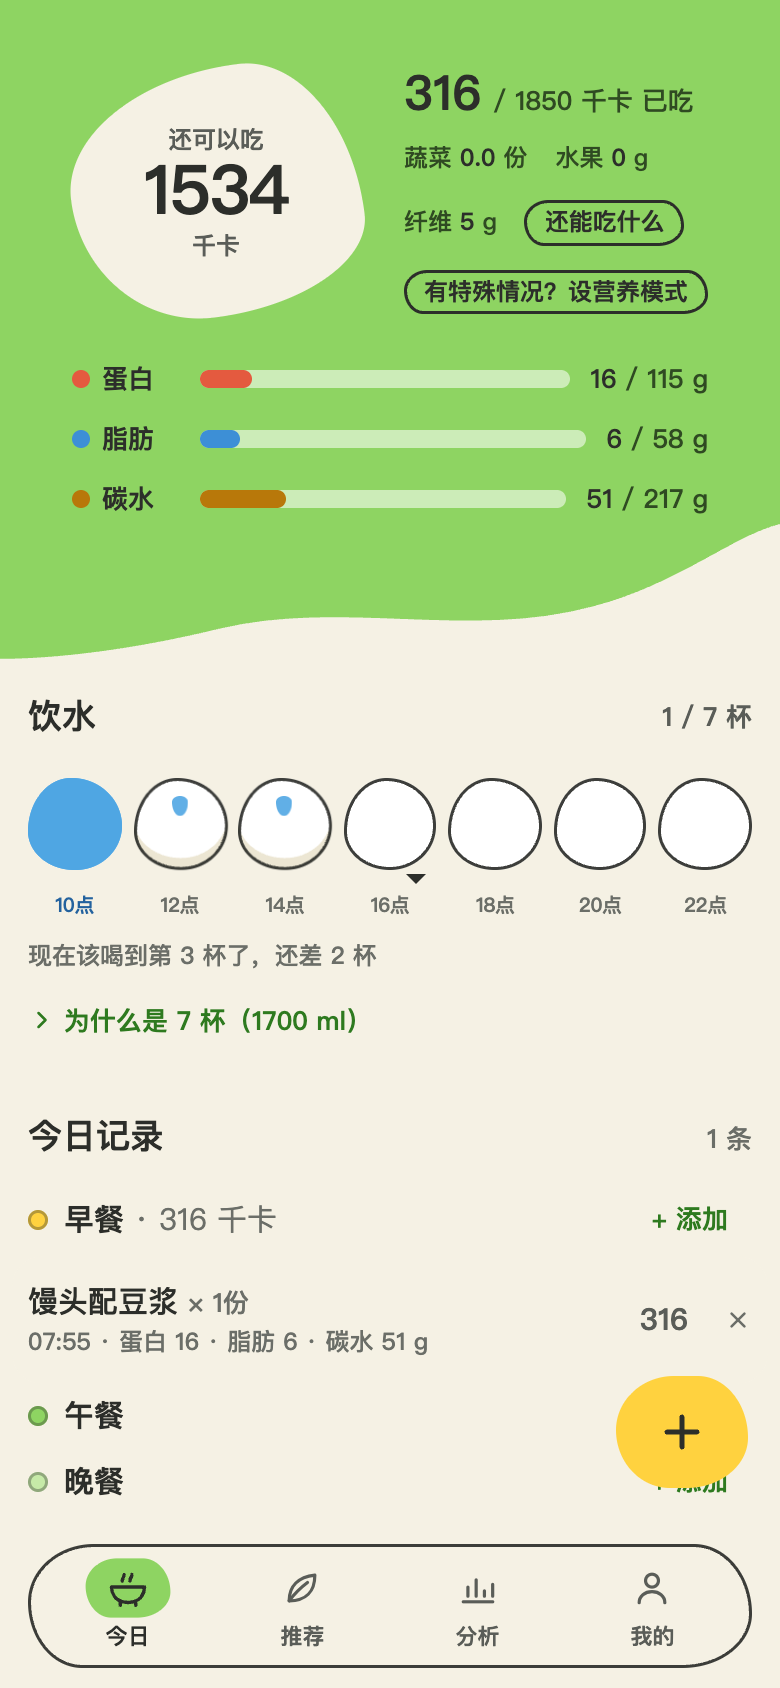
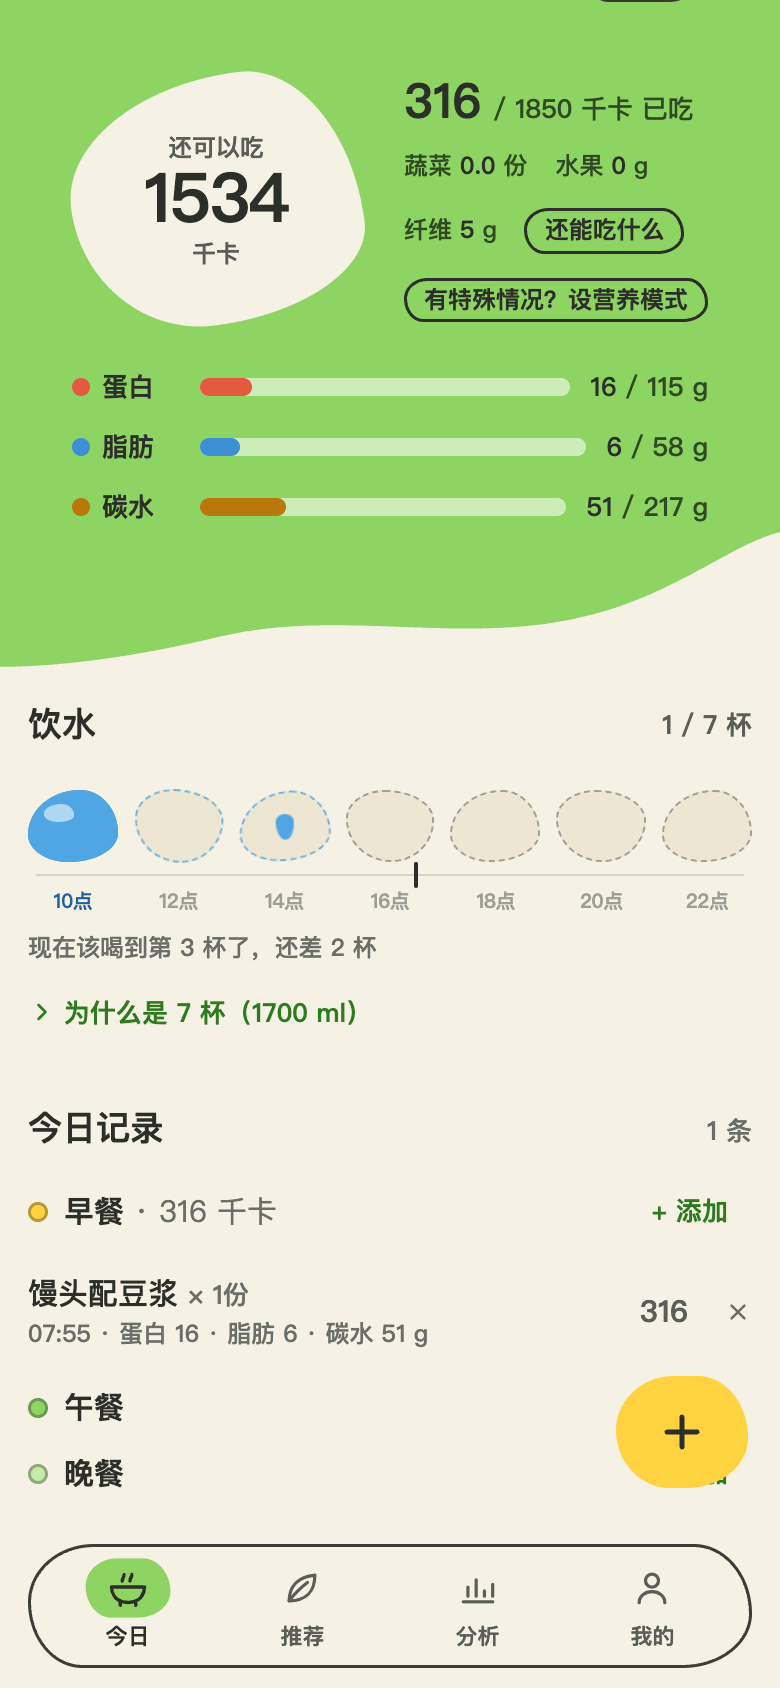
饮水水塘视觉重做：干河床 + 虚线岸、池塘蓝加天光反光、基线上的「现在」刻度
- 空塘：--surface-2 浅滩色 + --axis 虚线岸，宽扁歪椭圆交替两套半径；有水：--pond-deep 底 + --pond 水面 + 平涂反光
- 塘下 --hair 基线串起七个塘，墨色 2×13 刻度表示现在；时刻标签退成 --faint，亮了变 --fat-text
- 口渴：虚线岸变蓝、轻抖，一滴水从上方掉进塘里摊开；新增 --pond-deep token（明暗两套）

diff --git a/src/styles.css b/src/styles.css
@@ -12,6 +12,7 @@
   --sun: #FFD23F;           /* 太阳黄：主操作、早餐、偏离 */
   --coral: #FF6B5A;
   --pond: #4FA6E3;
+  --pond-deep: #3E8FCE;   /* 水塘底色，比水面略深一点 */
   --lilac: #EBC1FF;
   --ink: #2C2E2A;
   --ink-2: #5A5D58;
@@ -71,6 +72,7 @@
     --sun: #E3B92B;
     --coral: #E36A57;
     --pond: #4E97D6;
+    --pond-deep: #3B7BB5;
     --lilac: #B48BC9;
     --ink: #ECEEE6;
     --ink-2: #B3B7AC;
@@ -466,25 +468,32 @@ input[type="checkbox"] { accent-color: var(--accent); width: 16px; height: 16px;
 .finding.open .finding-head svg { transform: rotate(90deg); }
 .finding.summary .title { font-weight: 700; }
 
-/* ========== 饮水：一排 250 ml 的小水塘沿 8~22 点排开 ========== */
-.ponds { position: relative; display: flex; gap: 6px; padding: 6px 0 4px; }
-.pond-slot { flex: 1; min-width: 0; display: flex; flex-direction: column; align-items: center; gap: 12px; }
-.pond { position: relative; width: 100%; height: 46px; border: none; padding: 0; background: var(--surface); border-radius: 46% 54% 50% 50% / 58% 52% 48% 42%; box-shadow: inset 0 0 0 1.5px var(--stroke); overflow: hidden; cursor: pointer; transition: transform var(--t-coast) var(--ease-coast), box-shadow var(--t-med); }
-.pond:nth-child(even) { border-radius: 52% 48% 56% 44% / 46% 58% 42% 54%; }
+/* ========== 饮水：一串小水塘沿 8~22 点的溪流排开 ==========
+   空塘是干河床（浅滩色 + 虚线岸），有水时是池塘蓝加一小片天光反光；底下一根细基线把塘串起来，
+   基线上的墨色刻度是「现在」。到点没喝的塘会渴：抖一下、上面掉一滴水。 */
+.ponds { position: relative; display: flex; gap: 8px; padding: 8px 0 2px; }
+.pond-slot { flex: 1; min-width: 0; display: flex; flex-direction: column; align-items: center; gap: 14px; position: relative; z-index: 1; }
+.pond { position: relative; width: 100%; height: 36px; border: none; padding: 0; background: var(--surface-2); border-radius: 58% 42% 55% 45% / 62% 60% 40% 38%; overflow: hidden; cursor: pointer; box-shadow: inset 0 0 0 1.5px transparent; transition: transform var(--t-coast) var(--ease-coast), box-shadow var(--t-med), background var(--t-med); }
+.pond-slot:nth-child(even) .pond { border-radius: 44% 56% 48% 52% / 40% 42% 58% 60%; }
+.pond::before { content: ''; position: absolute; inset: 0; border-radius: inherit; border: 1.5px dashed var(--axis); opacity: 1; transition: opacity var(--t-med); pointer-events: none; }
+.pond:hover { transform: translateY(-1px); }
 .pond:active { transform: scale(.94); }
-.pond.lit { box-shadow: inset 0 0 0 1.5px var(--pond); }
+.pond.lit { background: var(--pond-deep, #3E8FCE); }
+.pond.lit::before { opacity: 0; }
 .pond-water { position: absolute; left: 0; right: 0; bottom: 0; height: 100%; background: var(--pond); transform-origin: 50% 100%; transition: transform var(--t-coast) var(--ease-coast); }
-.pond-lbl { font-size: 10px; font-weight: 600; color: var(--muted); text-align: center; letter-spacing: -0.02em; white-space: nowrap; line-height: 1; }
+.pond-glint { position: absolute; left: 18%; top: 18%; width: 34%; height: 24%; border-radius: 60% 40% 55% 45% / 55% 65% 35% 45%; background: rgba(255, 255, 255, .55); pointer-events: none; }
+.pond-base { position: absolute; left: 4px; right: 4px; top: 50px; height: 1px; background: var(--hair); z-index: 0; }
+.pond-lbl { font-size: 10px; font-weight: 600; color: var(--faint); text-align: center; letter-spacing: -0.02em; white-space: nowrap; line-height: 1; }
 .pond-slot.lit .pond-lbl { color: var(--fat-text); }
-.pond-now { position: absolute; top: 54px; width: 0; height: 0; border: 5px solid transparent; border-top-color: var(--ink); transform: translateX(-50%); }
-/* 口渴：到点没喝的水塘轻轻发抖，顶上冒一颗小水滴 */
-.pond.thirsty { animation: thirsty 2.6s ease-in-out infinite; animation-delay: calc(var(--i, 0) * 180ms); box-shadow: inset 0 0 0 1.5px var(--stroke), inset 0 -6px 0 var(--surface-2); }
-.pond-drop { position: absolute; left: 50%; top: 9px; width: 8px; height: 10px; margin-left: -4px; background: var(--pond); border-radius: 50% 50% 50% 50% / 30% 30% 70% 70%; opacity: .9; animation: drop 2.6s ease-in-out infinite; animation-delay: calc(var(--i, 0) * 180ms); }
-@keyframes thirsty { 0%, 70%, 100% { transform: none; } 76% { transform: rotate(-4deg) scale(1.02, .97); } 82% { transform: rotate(4deg) scale(.98, 1.03); } 88% { transform: rotate(-2deg); } 94% { transform: rotate(2deg); } }
-@keyframes drop { 0%, 60%, 100% { transform: translateY(0); opacity: .9; } 78% { transform: translateY(6px) scale(1.15); opacity: 1; } 90% { transform: translateY(2px); } }
+.pond-now { position: absolute; top: 44px; width: 2px; height: 13px; background: var(--ink); border-radius: 1px; transform: translateX(-50%); z-index: 2; }
+/* 口渴：干塘轻轻发抖，一滴水从上面掉进来 */
+.pond.thirsty { animation: thirsty 2.6s ease-in-out infinite; animation-delay: calc(var(--i, 0) * 180ms); }
+.pond.thirsty::before { border-color: var(--pond); opacity: .8; }
+.pond-drop { position: absolute; left: 50%; top: -12px; width: 9px; height: 12px; margin-left: -4.5px; background: var(--pond); border-radius: 50% 50% 50% 50% / 30% 30% 70% 70%; animation: drop 2.6s ease-in infinite; animation-delay: calc(var(--i, 0) * 180ms); }
+@keyframes thirsty { 0%, 70%, 100% { transform: none; } 76% { transform: rotate(-3deg) scale(1.02, .97); } 82% { transform: rotate(3deg) scale(.98, 1.03); } 88% { transform: rotate(-1.5deg); } 94% { transform: rotate(1.5deg); } }
+@keyframes drop { 0%, 55% { transform: translateY(0); opacity: 0; } 62% { opacity: 1; } 78% { transform: translateY(26px) scale(1, 1.1); opacity: 1; } 84%, 100% { transform: translateY(30px) scale(1.6, .3); opacity: 0; } }
 /* 全部点亮：整排荡一下水波 */
 .ponds.done .pond { animation: ripple .7s var(--ease-coast) 1; animation-delay: calc(var(--i, 0) * 60ms); }
-.pond.thirsty { --i: inherit; }
 @keyframes ripple { 0% { transform: none; } 40% { transform: translateY(-6px) scale(1.06); } 100% { transform: none; } }
 
 /* ========== Toast：墨色胶囊 ========== */

diff --git a/src/ui/Water.tsx b/src/ui/Water.tsx
@@ -66,12 +66,14 @@ export function WaterCard({ entries, targetMl, fluidMl, isToday, onSet }: {
               <button type="button" className={`pond${isLit ? ' lit' : ''}${thirsty ? ' thirsty' : ''}`}
                 aria-pressed={isLit} aria-label={`第 ${i} 杯，${fmtHour(d)} 前${isLit ? '，已喝' : thirsty ? '，到点还没喝' : ''}`} onClick={() => tap(i)}>
                 <span className="pond-water" style={{ transform: `scaleY(${fill})` }} aria-hidden />
+                {fill > 0.35 && <span className="pond-glint" aria-hidden />}
                 {thirsty && <span className="pond-drop" aria-hidden />}
               </button>
               <span className="pond-lbl">{fmtHour(d)}</span>
             </div>
           )
         })}
+        <span className="pond-base" aria-hidden />
         {isToday && <span className="pond-now" style={{ left: `${nowPct}%` }} aria-hidden />}
       </div>
       <p className="tiny muted" style={{ marginTop: 8 }}>

diff --git a/DESIGN.md b/DESIGN.md
@@ -463,7 +463,7 @@ components:
 - **一周视图（推荐页）:** 标题右侧 `.seg.seg-sm` 切「单日 / 一周」。一周是 7 行 `.week-row`（`64px 1fr auto` 网格：星期与日期、三餐菜名、当日热量），当前日期行 `--land-2` 底，点行回到该日单日视图；下方「全周换一换」描边胶囊与折叠的「本周采购清单（N 项）」。
 - **血压 / 血糖卡（分析页，仅高血压 / 糖尿病模式）:** 字段行（收缩压 + 舒张压，或血糖 + 空腹/餐后 2h 分段）+ 太阳黄记录键；紧凑数据条给 7 天均值；两条以上时一条墨色趋势线；近 7 条记录列表，每条带 `.pill.good/.warn/.bad` 分级与灰色删除叉；尾注「以医生方案为准」。
 - **扫码面板（录餐抽屉第三入口，2026-09-07）:** 分段控件「搜菜名 / 说一句话 / 扫码」。取景框是 4:3 的墨色地（`--r-lobe`），未开相机时中间一颗太阳黄「打开相机扫码」，扫描中露出画面并叠一个 `--sun` 描边的取景框与白字提示；下方永远有手输条码输入行 + 查询键、拍照识别、返回；页脚一行 Open Food Facts 归属。查到：产品名 + 品牌·规格·来源，「每 100 g」紧凑数据条，克数输入与「一份 / 100 g / 50 g」胶囊，「这一份」数据条，「再扫一个 / 选用这份」。没查到：标题 + 条码 + 一条图标要点，「再扫一个 / 按成分表录入」。
-- **饮水水塘（今日页，2026-09-07）:** 一排 250 ml 的小水塘（`.pond`，46px 高的歪圆角、`--stroke` 描边、白底），沿 8~22 点均分排开，每个下面 10px 的应喝完时刻（10点 / 12点 …），底线上一枚墨色小三角是「现在」。点第几个就亮到第几杯（`--pond` 蓝从底部涨起，`--ease-coast` 过冲），点已亮的杯子退回到它前一杯；没有加减与数字输入。到点没喝的水塘「口渴」：每 2.6 秒轻轻抖一下并冒一颗小水滴（按序号错开 180ms）；全部点亮时整排从左到右荡一次水波。这是这个世界里除岸线之外唯一的循环动效，只在口渴时出现，reduced-motion 下关闭。
+- **饮水水塘（今日页，2026-09-07）:** 一串 250 ml 的小水塘沿 8~22 点的「溪流」排开。空塘是干河床：`--surface-2` 浅滩色加 1.5px `--axis` 虚线岸，宽扁歪椭圆（相邻塘两套半径交替）；有水的塘：`--pond-deep` 底、`--pond` 水面从底部涨起（`--ease-coast` 过冲）、左上一小片 55% 白的天光反光（平涂，无渐变）。塘下 14px 处一根 `--hair` 基线把塘串起来，基线上 2×13px 的墨色刻度是「现在」；每塘下面 10px `--faint` 的应喝完时刻，亮了的变 `--fat-text` 蓝。点第几个亮到第几杯，点已亮的退回前一杯；无加减与数字输入。到点没喝的塘「口渴」：虚线岸变池塘蓝，每 2.6 秒轻轻抖一下，一滴水从上方掉进塘里摊开（按序号错开 180ms）；点满整排从左到右荡一次水波。这是这个世界里除岸线之外唯一的循环动效，只在口渴时出现，reduced-motion 下关闭。
 - **条目删除（2026-09-07）:** 今日记录每条右侧一个 14px 灰色叉（`.btn.ghost.row-del`，hover 变 `--bad-text`），点了直接删，toast 可撤销；手机上整行可左滑 88px 露出右侧 76px 宽的 `--bad` 底白字"删除"胶囊（`.swipe` 外层裁切，行本身 `--bg` 底盖住后面的键），松手位移超过 44px 停在打开态，再点行关闭。删除永远可撤销，所以不做二次确认。
 - **FindingRow（饮食习惯行）:** 现只用于归不到宏量的结论（外卖、早餐、夜宵、加工食品、记录太少、蛋白分布）：warn 默认展开，其余折成一行标题 + 数据句省略 + chevron。
 
